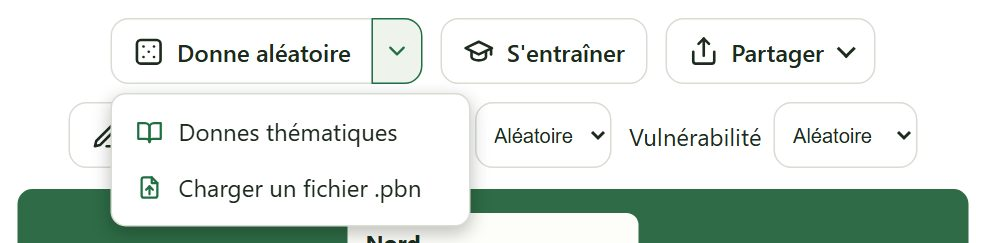
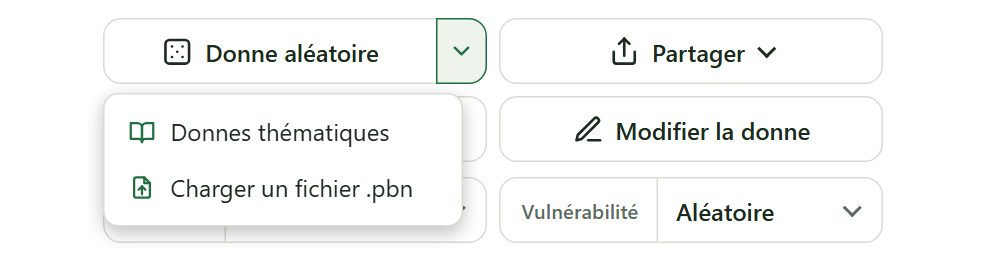
Commandes de la donne : S'entraîner après Partager, disposition soignée
- Ordre des boutons : Donne aléatoire, Partager, S'entraîner, Modifier
  la donne ; les quatre sur une rangée, ou en grille 2 × 2 de largeurs
  égales dès que la place manque (requête de conteneur), au lieu d'un
  bouton seul sur la ligne suivante.
- Donneur et Vulnérabilité en pastilles de la hauteur et de l'arrondi
  des boutons : libellé et valeur dans un même cadre, flèche dessinée ;
  sur téléphone, le libellé en petites capitales au-dessus de la valeur.
- Sur téléphone, « Partager » retrouve son libellé, tous les libellés
  tiennent sans être coupés.

diff --git a/cli/index.html b/cli/index.html
@@ -267,54 +267,58 @@
            sans que rien ne dise à quoi elle sert. -->
       <p class="panel-intro" data-i18n="intro">Composez une donne — l'application déroule les enchères du système français et les commente, enchère par enchère.</p>
       <div class="row row-centered" id="deal-actions">
-        <!-- Barre de commandes à libellés. La donne aléatoire, l'action la plus
-             fréquente, est à un clic ; les autres façons d'obtenir une donne
-             sont dans le menu de sa flèche. Libellés, dessins et noms posés
-             par renderDealActions ; ouverture des menus par le script des
-             menus (voir « menus » dans app.js). -->
-        <div class="split-btn menu">
-          <button id="random-btn" type="button" class="cmd-btn cmd-labeled"></button>
-          <button id="new-deal-more-btn" type="button" class="cmd-btn menu-trigger split-caret"
-                  aria-expanded="false" aria-controls="new-deal-pop"></button>
-          <div id="new-deal-pop" class="menu-pop" hidden>
-            <button id="themes-btn" type="button" class="menu-item"></button>
-            <!-- Un <label> et non un <button> : c'est lui qui ouvre le champ
-                 fichier qu'il enveloppe. -->
-            <label class="file-btn menu-item" tabindex="0">
-              <svg viewBox="0 0 24 24" fill="none" stroke="currentColor" stroke-width="2"
-                   stroke-linecap="round" stroke-linejoin="round" aria-hidden="true">
-                <path d="M14 3H7a2 2 0 0 0-2 2v14a2 2 0 0 0 2 2h10a2 2 0 0 0 2-2V8z"/>
-                <path d="M14 3v5h5"/>
-                <path d="M12 18v-7"/><path d="m9 14 3-3 3 3"/>
-              </svg>
-              <span class="cmd-label" data-i18n="fileLoad">Charger un fichier .pbn</span>
-              <input id="file" type="file" accept=".pbn,.txt,text/plain" tabindex="-1">
-            </label>
+        <!-- Les quatre commandes de la donne, sur une rangée (une grille 2 × 2
+             sur téléphone) ; Donneur et Vulnérabilité en dessous. -->
+        <div class="deal-cmds">
+          <!-- Barre de commandes à libellés. La donne aléatoire, l'action la plus
+               fréquente, est à un clic ; les autres façons d'obtenir une donne
+               sont dans le menu de sa flèche. Libellés, dessins et noms posés
+               par renderDealActions ; ouverture des menus par le script des
+               menus (voir « menus » dans app.js). -->
+          <div class="split-btn menu">
+            <button id="random-btn" type="button" class="cmd-btn cmd-labeled"></button>
+            <button id="new-deal-more-btn" type="button" class="cmd-btn menu-trigger split-caret"
+                    aria-expanded="false" aria-controls="new-deal-pop"></button>
+            <div id="new-deal-pop" class="menu-pop" hidden>
+              <button id="themes-btn" type="button" class="menu-item"></button>
+              <!-- Un <label> et non un <button> : c'est lui qui ouvre le champ
+                   fichier qu'il enveloppe. -->
+              <label class="file-btn menu-item" tabindex="0">
+                <svg viewBox="0 0 24 24" fill="none" stroke="currentColor" stroke-width="2"
+                     stroke-linecap="round" stroke-linejoin="round" aria-hidden="true">
+                  <path d="M14 3H7a2 2 0 0 0-2 2v14a2 2 0 0 0 2 2h10a2 2 0 0 0 2-2V8z"/>
+                  <path d="M14 3v5h5"/>
+                  <path d="M12 18v-7"/><path d="m9 14 3-3 3 3"/>
+                </svg>
+                <span class="cmd-label" data-i18n="fileLoad">Charger un fichier .pbn</span>
+                <input id="file" type="file" accept=".pbn,.txt,text/plain" tabindex="-1">
+              </label>
+            </div>
           </div>
-        </div>
-        <!-- S'entraîner : on choisit sa main, puis on enchérit sur des donnes
-             tirées au hasard, dans une fenêtre à part (voir « s'entraîner »
-             dans app.js). -->
-        <button id="train-btn" type="button" class="cmd-btn cmd-labeled"></button>
-        <!-- Ce que l'on fait de la donne hors de la page : la copier, la
-             sauver, la lire en texte. -->
-        <div class="menu">
-          <button id="share-menu-btn" type="button" class="cmd-btn cmd-labeled menu-trigger"
-                  aria-expanded="false" aria-controls="share-pop"></button>
-          <div id="share-pop" class="menu-pop" hidden>
-            <!-- Lien de partage : la donne encodée dans l'adresse (#pbn=…),
-                 copiée dans le presse-papiers. Voir « partage » dans app.js. -->
-            <button id="share-btn" type="button" class="menu-item"></button>
-            <button id="save-btn" type="button" class="menu-item"></button>
-            <!-- Bascule du texte PBN, qui s'affiche sous la rangée ;
-                 aria-expanded par setPbnOpen. -->
-            <button id="pbn-toggle-btn" type="button" class="menu-item"
-                    aria-expanded="false" aria-controls="pbn-details"></button>
+          <!-- Ce que l'on fait de la donne hors de la page : la copier, la
+               sauver, la lire en texte. -->
+          <div class="menu">
+            <button id="share-menu-btn" type="button" class="cmd-btn cmd-labeled menu-trigger"
+                    aria-expanded="false" aria-controls="share-pop"></button>
+            <div id="share-pop" class="menu-pop" hidden>
+              <!-- Lien de partage : la donne encodée dans l'adresse (#pbn=…),
+                   copiée dans le presse-papiers. Voir « partage » dans app.js. -->
+              <button id="share-btn" type="button" class="menu-item"></button>
+              <button id="save-btn" type="button" class="menu-item"></button>
+              <!-- Bascule du texte PBN, qui s'affiche sous la rangée ;
+                   aria-expanded par setPbnOpen. -->
+              <button id="pbn-toggle-btn" type="button" class="menu-item"
+                      aria-expanded="false" aria-controls="pbn-details"></button>
+            </div>
           </div>
+          <!-- S'entraîner : on choisit sa main, puis on enchérit sur des donnes
+               tirées au hasard, dans une fenêtre à part (voir « s'entraîner »
+               dans app.js). -->
+          <button id="train-btn" type="button" class="cmd-btn cmd-labeled"></button>
+          <!-- Bascule entre la table en lecture et la table en édition (voir
+               « lecture et édition » dans app.js). Libellé par renderDealMode. -->
+          <button id="edit-btn" type="button" class="cmd-btn cmd-labeled" aria-pressed="false"></button>
         </div>
-        <!-- Bascule entre la table en lecture et la table en édition (voir
-             « lecture et édition » dans app.js). Libellé par renderDealMode. -->
-        <button id="edit-btn" type="button" class="cmd-btn cmd-labeled" aria-pressed="false"></button>
         <span id="photo-status" class="muted hidden"></span>
         <input id="photo-input" type="file" accept="image/*" capture="environment" class="hidden">
         <!-- Donneur et vulnérabilité se replient en bloc : groupés, ils ne se
@@ -676,7 +680,7 @@
 
         <h3>6. S'entraîner</h3>
         <ul class="help-icons">
-          <li><span data-help-icon="quiz"></span><span>Le bouton <b>S'entraîner</b>, à côté de Donne aléatoire, ouvre le choix de <b>votre main</b> (Nord, Est, Sud ou Ouest), puis la table d'entraînement. Les donnes y sont tirées comme par <b>Donne aléatoire</b> : parmi les donnes thématiques si l'option est cochée, avec le donneur, la vulnérabilité et les bornes choisis. Le thème de la donne n'est pas affiché à la table, pour ne rien souffler ; le score de <b>Terminer</b> le cite.</span></li>
+          <li><span data-help-icon="quiz"></span><span>Le bouton <b>S'entraîner</b>, après Partager, ouvre le choix de <b>votre main</b> (Nord, Est, Sud ou Ouest), puis la table d'entraînement. Les donnes y sont tirées comme par <b>Donne aléatoire</b> : parmi les donnes thématiques si l'option est cochée, avec le donneur, la vulnérabilité et les bornes choisis. Le thème de la donne n'est pas affiché à la table, pour ne rien souffler ; le score de <b>Terminer</b> le cite.</span></li>
         </ul>
         <ul>
           <li>Votre main est toujours <b>en bas</b>, face visible ; les trois autres joueurs ont le dos tourné (à gauche, celui qui parle après vous ; en face, votre partenaire). Au centre, la boîte des enchères : les sièges vulnérables y sont en rouge, et un <b>?</b> marque le tour de parole. La plaque du joueur qui parle s'éclaire en jaune.</li>
@@ -801,7 +805,7 @@
 
         <h3>6. Practising</h3>
         <ul class="help-icons">
-          <li><span data-help-icon="quiz"></span><span>The <b>Practise</b> button, next to Random deal, opens the choice of <b>your hand</b> (North, East, South or West), then the practice table. Its deals are drawn like <b>Random deal</b>'s: among the themed deals if that option is on, with the dealer, vulnerability and bounds you chose. The deal's topic is not shown at the table, so as to give nothing away; the <b>Finish</b> score names it.</span></li>
+          <li><span data-help-icon="quiz"></span><span>The <b>Practise</b> button, after Share, opens the choice of <b>your hand</b> (North, East, South or West), then the practice table. Its deals are drawn like <b>Random deal</b>'s: among the themed deals if that option is on, with the dealer, vulnerability and bounds you chose. The deal's topic is not shown at the table, so as to give nothing away; the <b>Finish</b> score names it.</span></li>
         </ul>
         <ul>
           <li>Your hand is always <b>at the bottom</b>, face up; the other three players' cards are face down (on your left, the player who bids after you; opposite, your partner). In the middle, the auction box: vulnerable seats are shown in red, and a <b>?</b> marks whose turn it is. The plate of the player to bid lights up in yellow.</li>

diff --git a/cli/style.css b/cli/style.css
@@ -465,13 +465,97 @@ button:disabled { opacity: .6; cursor: wait; }
 }
 .cmd-btn svg { width: 21px; height: 21px; }
 
-/* Donneur et vulnérabilité voisinent avec ces boutons dans la même rangée :
-   à 33 px contre 44, ils flottaient au milieu. Ils prennent leur hauteur et
-   leur arrondi — la rangée se lit alors d'un trait. */
-#deal-actions select {
-  min-height: 44px;
-  border-radius: 12px;
+/* Les commandes de la donne : les quatre boutons sur une rangée, Donneur et
+   Vulnérabilité sur la suivante. Chaque champ est une pastille de la hauteur
+   et de l'arrondi des boutons : le libellé à gauche, séparé d'un filet, la
+   valeur à droite avec sa flèche. */
+#deal-actions {
+  flex-direction: column;
+  align-items: center;
+  gap: 10px;
+  container-type: inline-size;
 }
+.deal-cmds {
+  display: flex;
+  flex-wrap: wrap;
+  justify-content: center;
+  gap: 10px;
+}
+#deal-actions .field-group { gap: 10px; justify-content: center; }
+#deal-actions .field {
+  position: relative;
+  gap: 0;
+  height: 44px;
+  border: 1px solid var(--border);
+  border-radius: 12px;
+  background: var(--panel);
+  transition: border-color .15s, background .15s;
+}
+#deal-actions .field:hover:not(:has(select:disabled)) { border-color: var(--accent); }
+#deal-actions .field:focus-within { border-color: var(--accent); box-shadow: 0 0 0 2px color-mix(in srgb, var(--accent) 30%, transparent); }
+#deal-actions .field label {
+  align-self: stretch;
+  display: flex;
+  align-items: center;
+  padding: 0 12px 0 14px;
+  border-right: 1px solid var(--border);
+  color: var(--muted);
+  font-size: .85rem;
+  font-weight: 600;
+  white-space: nowrap;
+}
+#deal-actions .field select {
+  height: 100%;
+  min-height: 0;
+  padding: 0 34px 0 12px;
+  border: none;
+  border-radius: 0 12px 12px 0;
+  background: transparent;
+  color: var(--ink);
+  font: inherit;
+  font-weight: 600;
+  appearance: none;
+  -webkit-appearance: none;
+  cursor: pointer;
+}
+#deal-actions .field select:focus { outline: none; }
+/* La flèche, dessinée comme celle des menus à libellé. */
+#deal-actions .field::after {
+  content: "";
+  position: absolute;
+  right: 15px;
+  top: 50%;
+  width: 7px;
+  height: 7px;
+  margin-top: -6px;
+  border: solid var(--muted);
+  border-width: 0 2px 2px 0;
+  transform: rotate(45deg);
+  pointer-events: none;
+}
+/* Quand les quatre boutons ne tiennent plus sur une ligne, ils passent en
+   grille 2 × 2 de largeurs égales plutôt que de laisser le dernier seul sur
+   la suivante ; les deux champs prennent la même grille. */
+@container (max-width: 820px) {
+  .deal-cmds,
+  #deal-actions .field-group {
+    display: grid;
+    grid-template-columns: repeat(2, minmax(0, 1fr));
+    gap: 8px;
+    width: min(100%, 520px);
+  }
+  .deal-cmds > .cmd-btn, .deal-cmds > .menu { width: 100%; }
+  .deal-cmds > .menu:not(.split-btn) > .cmd-btn { flex: 1; }
+  .deal-cmds > .split-btn > .cmd-btn:first-child { flex: 1; min-width: 0; }
+  .deal-cmds > .split-btn > .split-caret { flex: none; }
+  #deal-actions .field { min-width: 0; }
+  #deal-actions .field select { flex: 1; min-width: 0; }
+}
+/* Le dessin garde sa taille quand le bouton se resserre. */
+.deal-cmds .cmd-btn svg { flex: none; }
+#deal-actions .field:has(select:disabled) { background: var(--disabled-bg); }
+#deal-actions .field:has(select:disabled)::after { opacity: .4; }
+#deal-actions .field select:disabled { background: transparent; cursor: not-allowed; }
 .cmd-btn:hover:not(:disabled) {
   background: var(--tint);
   border-color: var(--accent);
@@ -1194,26 +1278,11 @@ select:disabled { background: var(--disabled-bg); color: var(--muted); cursor: n
   .panel { padding: 12px 10px; border-radius: 8px; }
   .row { gap: 8px; }
 
-  /* Les commandes de la donne sont devenues des icônes : les quatre tiennent
-     sur une ligne, même à 320 px, et la grille de deux colonnes qui les
-     remettait en ordre n'a plus d'objet — elle existait parce que « Sauver le
-     PBN » finissait à côté de « Donneur », comme s'ils allaient ensemble.
-     Restent les deux champs, qu'on envoie sous les boutons pour la même
-     raison, libellé au-dessus. */
-  #deal-actions #photo-status { flex-basis: 100%; text-align: center; }
-  #deal-actions .field-group {
-    flex-basis: 100%;
-    display: grid;
-    grid-template-columns: 1fr 1fr;
-    gap: 8px;
-  }
-  #deal-actions .field {
-    flex-direction: column;
-    align-items: stretch;
-    gap: 3px;
-  }
-  #deal-actions .field label { font-size: .8rem; color: var(--muted); }
-  #deal-actions select { width: 100%; }
+  /* Sur téléphone, les quatre boutons en grille 2 × 2, de largeurs égales ;
+     les deux champs côte à côte, sur toute la largeur. */
+  #deal-actions { gap: 8px; }
+  #deal-actions #photo-status { text-align: center; }
+
 
   /* Primary actions become full-width, easy to tap. */
   .row button.primary { flex: 1 1 100%; }
@@ -2549,10 +2618,32 @@ select:disabled { background: var(--disabled-bg); color: var(--muted); cursor: n
 }
 
 @media (max-width: 480px) {
-  /* Sur un téléphone, les libellés de la barre restent, mais celui du menu
-     de partage s'efface derrière son icône : la rangée tient sur une ligne. */
-  #share-menu-btn .cmd-label { display: none; }
   .cmd-btn.cmd-labeled { padding: 0 12px; }
+  /* Sur un téléphone, la grille 2 × 2 des commandes garde tous ses libellés,
+     « Partager » compris : un cran plus petits, avec moins de marge. */
+  .deal-cmds .cmd-btn.cmd-labeled { gap: 6px; padding: 0 8px; font-size: .88rem; }
+  .deal-cmds .cmd-btn svg { width: 18px; height: 18px; }
+  .deal-cmds .split-btn .split-caret { width: 30px; }
+  /* Les deux champs : le libellé en petites capitales au-dessus de la
+     valeur, dans la même pastille. */
+  #deal-actions .field {
+    flex-direction: column;
+    align-items: stretch;
+    height: 50px;
+  }
+  #deal-actions .field label {
+    align-self: auto;
+    padding: 5px 12px 0;
+    border-right: none;
+    font-size: .68rem;
+    letter-spacing: .05em;
+    text-transform: uppercase;
+  }
+  #deal-actions .field select { height: auto; flex: 1; padding: 0 30px 2px 12px; border-radius: 0 0 12px 12px; }
+  #deal-actions .field::after { top: 62%; }
+}
+@media (max-width: 360px) {
+  .deal-cmds .cmd-btn svg { display: none; }
 }
 
 /* ---------- la table en lecture, la table en édition ----------

diff --git a/cli/app.js b/cli/app.js
@@ -5633,8 +5633,8 @@ const TUTORIAL_STEPS = [
     en: ["The par", "The Par tab gives the tricks each side makes in each denomination, cards face up (double dummy).\nHover or tap a cell: the leads that hold declarer to that number of tricks, and what the others cost."],
   },
   {
-    fr: ["S'entraîner", "Le bouton S'entraîner, à côté de Donne aléatoire : choisissez votre main (Nord, Est, Sud ou Ouest).\nLes donnes sont tirées au hasard, comme par Donne aléatoire, et vous ne voyez que votre main."],
-    en: ["Practise", "The Practise button, next to Random deal: choose your hand (North, East, South or West).\nDeals are drawn at random, like Random deal's, and you only see your own hand."],
+    fr: ["S'entraîner", "Le bouton S'entraîner, après Partager : choisissez votre main (Nord, Est, Sud ou Ouest).\nLes donnes sont tirées au hasard, comme par Donne aléatoire, et vous ne voyez que votre main."],
+    en: ["Practise", "The Practise button, after Share: choose your hand (North, East, South or West).\nDeals are drawn at random, like Random deal's, and you only see your own hand."],
   },
   {
     fr: ["La table", "Votre main en bas, les trois autres dos tournés ; au centre la boîte des enchères, sièges vulnérables en rouge. Les enchères des autres arrivent d'elles-mêmes.\nÀ votre tour, la boîte à enchères : un palier (1 à 7), puis une couleur ou SA ; ou Passe, X (contre), XX (surcontre). Au clavier : 1 à 7, puis C D H S N, P, X."],

diff --git a/README.md b/README.md
@@ -340,7 +340,7 @@ La pastille d'état des Réglages rejoue une donne de référence au chargement 
 
 ### S'entraîner
 
-Le bouton **S'entraîner**, entre **Donne aléatoire** et **Partager**, ouvre d'abord le choix de **votre main** : Nord, Est, Sud ou Ouest, disposés autour d'une table. Le dernier choix est retenu. Il ouvre ensuite la **table d'entraînement**, en plein écran. La donne affichée sur la page n'est pas touchée.
+Le bouton **S'entraîner**, après **Partager**, ouvre d'abord le choix de **votre main** : Nord, Est, Sud ou Ouest, disposés autour d'une table. Le dernier choix est retenu. Il ouvre ensuite la **table d'entraînement**, en plein écran. La donne affichée sur la page n'est pas touchée.
 
 - **Les donnes** sont tirées comme par **Donne aléatoire** : parmi les donnes thématiques si l'option **Donnes aléatoires tirées des thèmes** est cochée, sinon distribuées au hasard. Le donneur, la vulnérabilité et les bornes de points choisis s'appliquent. Le thème de la donne n'apparaît pas à la table, pour ne rien souffler : seul le score de **Terminer** le cite.
 - **La table** reprend l'allure d'une table en ligne :
